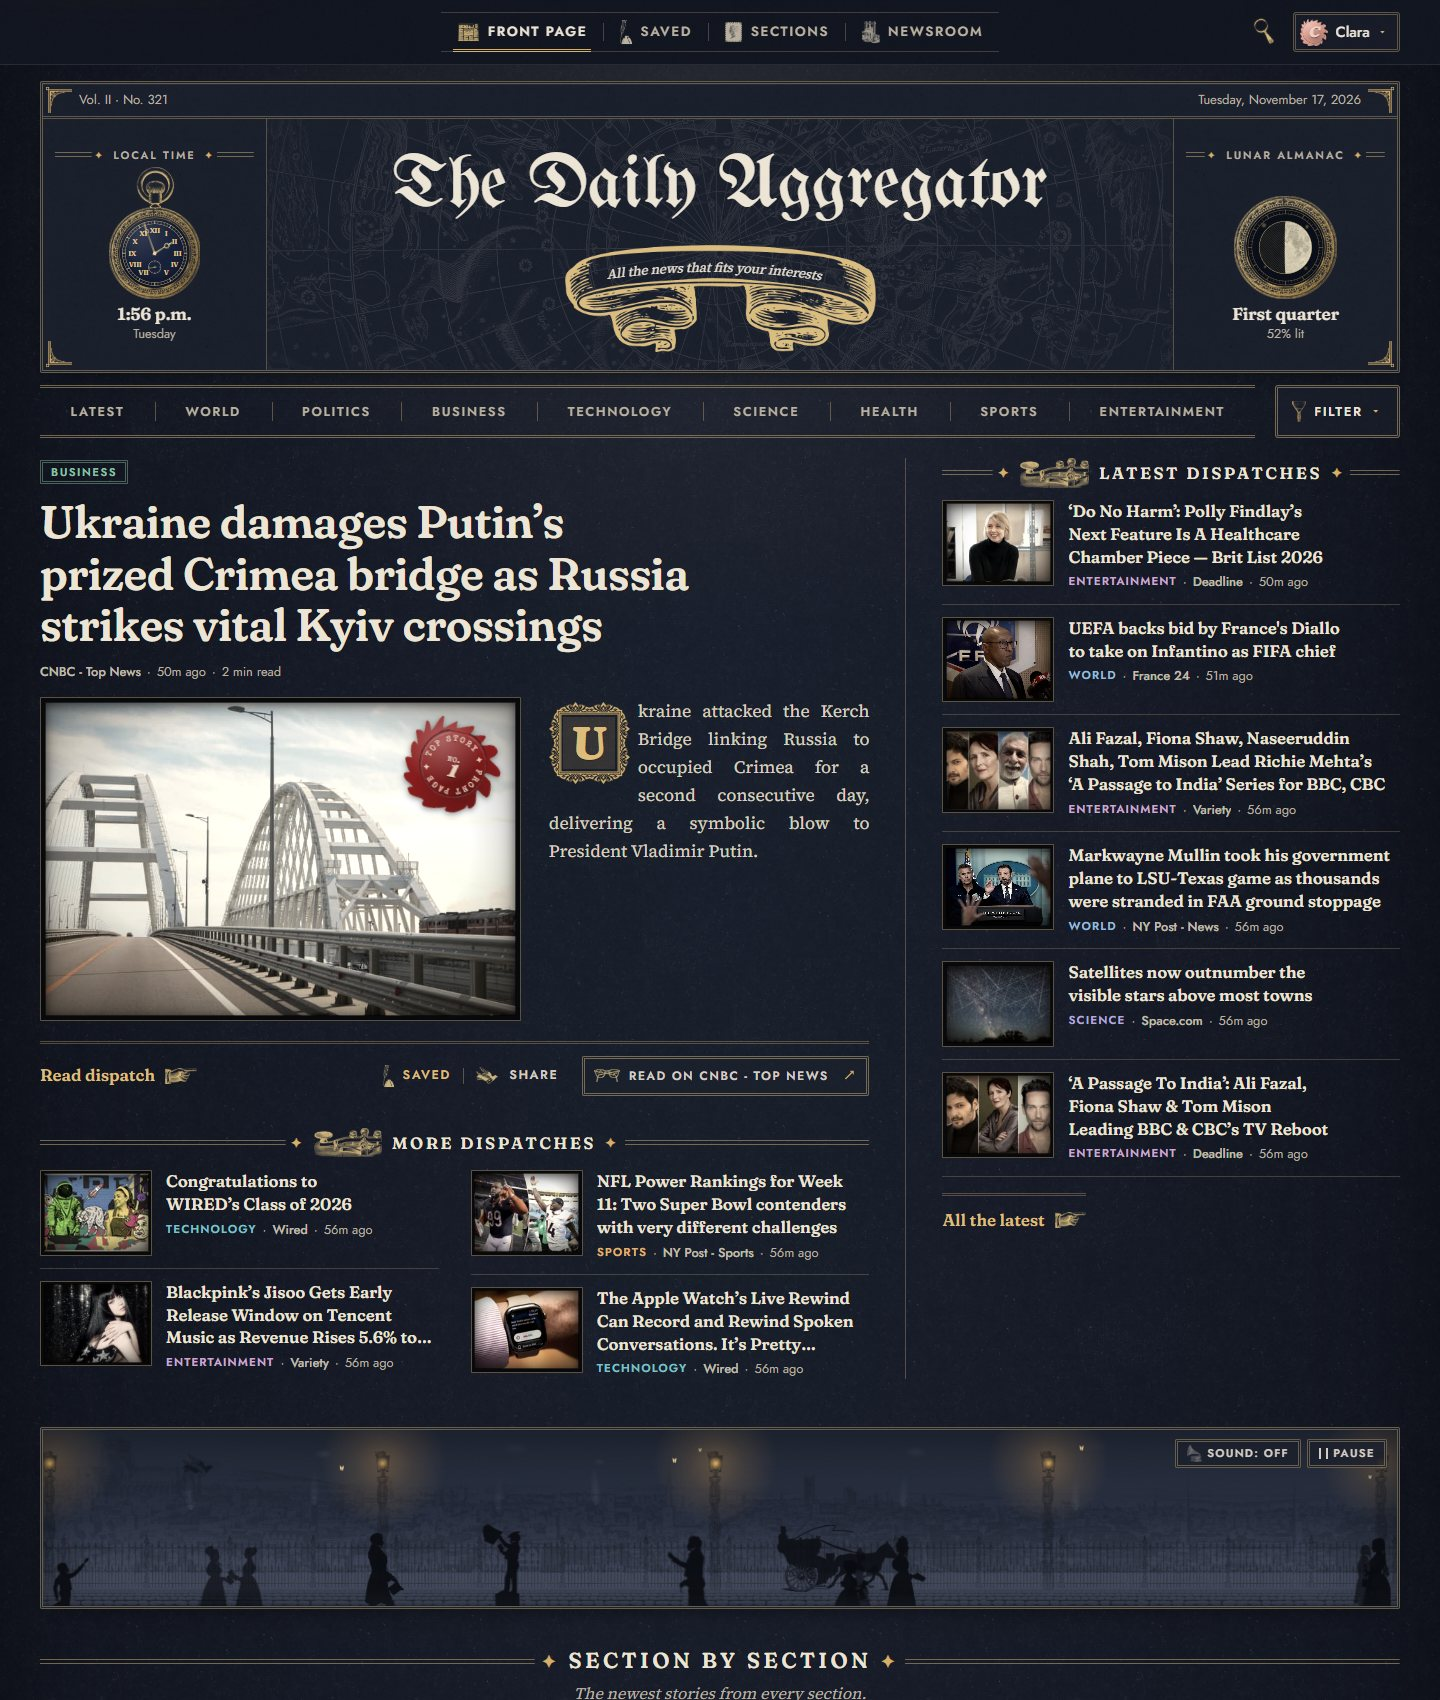
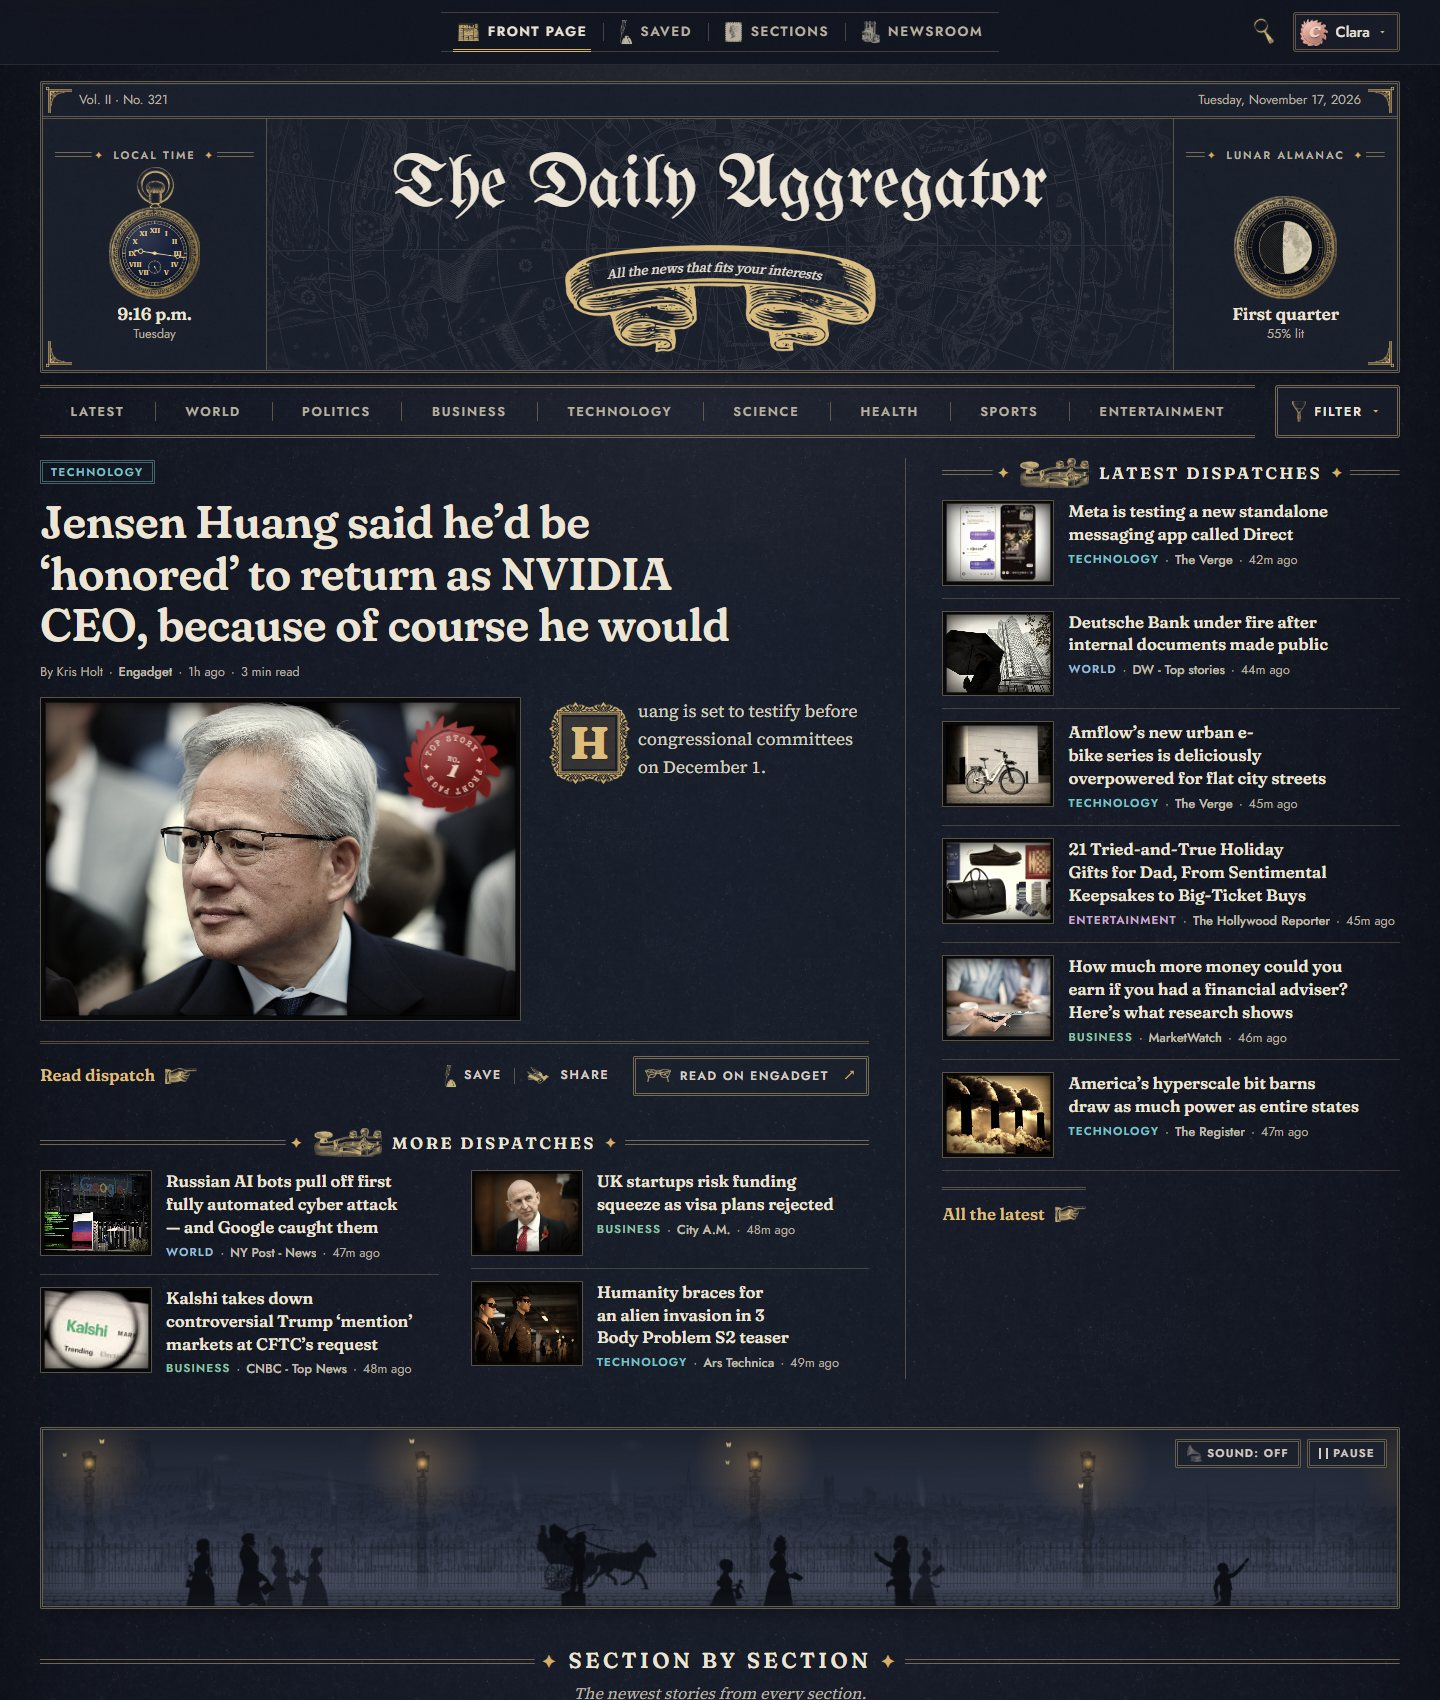
README: new screenshots and the street as an animated GIF

diff --git a/README.md b/README.md
@@ -8,6 +8,10 @@ care about.
 
 ![The front page in the morning edition: the blackletter masthead with a pocket watch and tonight's moon, the section ribbon, the lead story beside the latest dispatches, and the paper-theatre street](docs/screenshots/feed.jpg)
 
+![The paper-theatre street at night, moving: gas lamps flicker and moths circle them, a hansom cab trots past, a newsboy waves the evening paper and passers-by stroll along the railings](docs/screenshots/street.gif)
+
+*The street at the foot of the front page, in the night edition: cut-out engravings on a paper stage, all in CSS.*
+
 More screenshots: [quick read](docs/screenshots/quick-read.jpg) · [night edition](docs/screenshots/feed-dark.jpg) ·
 [saved stories](docs/screenshots/saved.jpg) · [sections](docs/screenshots/sections.jpg) ·
 [phone](docs/screenshots/mobile.jpg) · [newsroom dashboard](docs/screenshots/admin.jpg)
@@ -18,12 +22,14 @@ Built with **Next.js 16**, **React 19**, **TypeScript**, **Tailwind CSS 4** and 
 ## Features
 
 **Reading**
-- **One front page for everyone** (`/`): the lead story beside "Latest dispatches" (ten one-line
+- **One front page for everyone** (`/`): the lead story (the World or Technology news that the most
+  papers carry right now, else the newest with a photo) beside "Latest dispatches" (ten one-line
   headlines), then every section in brief (a photo story, four headlines, "All World news"). 8 sections
-  from 48 RSS sources, refreshed every hour; the Newsroom switches any of them on or off.
-- **Quick read**: pressing a headline opens the story in a sheet over the page (from the right on a
-  computer, from the bottom on a phone) with the photo, summary, Save, Share and the way on to the
-  publisher, and three more from the same desk at its foot. Close, Escape or Back return to the same
+  from 47 RSS sources, refreshed every hour; the Newsroom switches any of them on or off.
+- **Quick read**: pressing a headline opens the story in a sheet over the page (a framed page in the
+  middle on a computer, the whole screen on a phone) with the photo, the headline, "Read the full
+  report" right under it, the summary, Save and Share, and at its foot the same news from other papers
+  and more from the same desk. Close, Escape or Back return to the same
   spot. A shared link opens the front page with that story's sheet open.
 - **New since your last visit**: the front page says how many stories came out since you last read
   the paper ("12 new stories since your last visit this morning"). Remembered in the browser, no
@@ -43,6 +49,8 @@ Built with **Next.js 16**, **React 19**, **TypeScript**, **Tailwind CSS 4** and 
 - Hide a story, mute a newspaper, or mute words (Settings > Sections & papers).
 - A reading time ("4 min read") on stories, an "On this day" almanac (three anniversaries from
   Wikipedia).
+- **Add to Home Screen**: a web app manifest with the blackletter "D" icon and shortcuts to Latest,
+  Sections and Saved.
 - An optional ambient **Sound** on the street banner (soft rain and a pocket watch, made in the
   browser; off by default).
 
